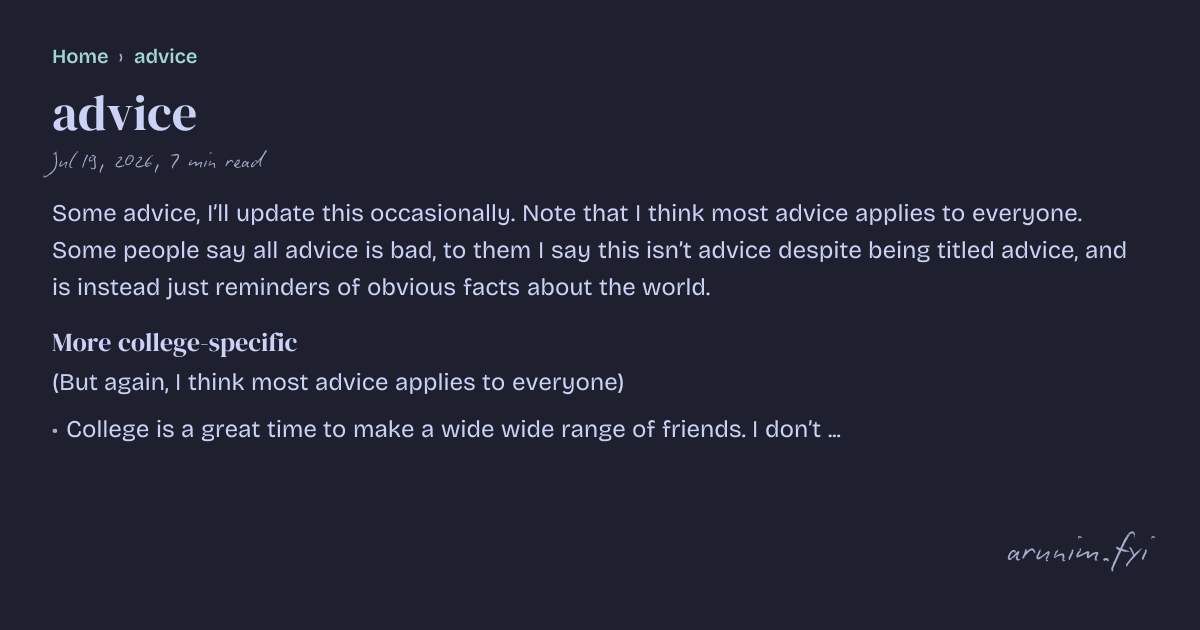
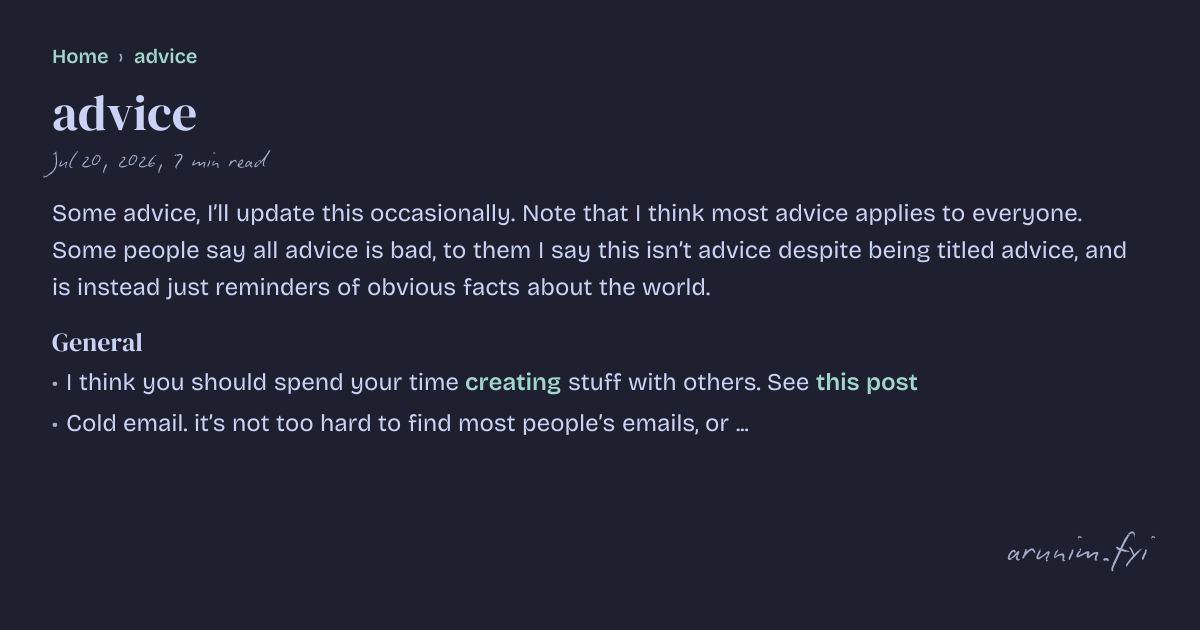
Build from arunim1/quartz@dec9a6a2a4a7ddc47f0a2cdc49b058c76cf8abbe

Changed region(s): [[0.0308, 0.5127, 0.7708, 0.6333], [0.0308, 0.6635, 0.7092, 0.6937], [0.0617, 0.2413, 0.2158, 0.2714]]

diff --git a/docs/advice.html b/docs/advice.html
@@ -1,37 +1,13 @@
 <!DOCTYPE html>
-<html lang="en"><head><title>advice - arunim.fyi</title><meta charset="utf-8"/><link rel="preconnect" href="https://fonts.googleapis.com"/><link rel="preconnect" href="https://fonts.gstatic.com"/><link rel="stylesheet" href="https://fonts.googleapis.com/css2?family=JetBrains Mono&amp;family=DM Serif Display:wght@400;700&amp;family=Bricolage Grotesque:ital,wght@0,350;0,600;1,400;1,600&amp;display=swap"/><meta name="viewport" content="width=device-width, initial-scale=1.0"/><meta property="og:title" content="advice"/><meta property="og:description" content="Some advice, I’ll update this occasionally. Note that I think most advice applies to everyone. Some people say all advice is bad, to them I say this isn’t advice despite being titled advice, and is instead just reminders of obvious facts about the world."/><meta property="og:image" content="https://arunim.fyi/static/og/advice.png"/><meta property="og:width" content="1200"/><meta property="og:height" content="675"/><link rel="icon" type="image/svg+xml" href="./static/icon.svg"/><link rel="icon" type="image/png" sizes="32x32" media="(prefers-color-scheme: light)" href="./static/favicon-32.png"/><link rel="icon" type="image/png" sizes="32x32" media="(prefers-color-scheme: dark)" href="./static/favicon-32-dark.png"/><link rel="icon" type="image/png" sizes="16x16" media="(prefers-color-scheme: light)" href="./static/favicon-16.png"/><link rel="icon" type="image/png" sizes="16x16" media="(prefers-color-scheme: dark)" href="./static/favicon-16-dark.png"/><meta name="description" content="Some advice, I’ll update this occasionally. Note that I think most advice applies to everyone. Some people say all advice is bad, to them I say this isn’t advice despite being titled advice, and is instead just reminders of obvious facts about the world."/><meta name="apple-mobile-web-app-capable" content="yes"/><meta name="apple-mobile-web-app-status-bar-style" content="default"/><meta name="apple-mobile-web-app-title" content="The Garden"/><link rel="apple-touch-icon" href="./static/apple-touch-icon.png"/><link rel="manifest" href="./static/manifest.json"/><meta name="generator" content="Quartz"/><meta name="quartz-visibility" content="public"/><link rel="preconnect" href="https://fonts.googleapis.com"/><link rel="preconnect" href="https://fonts.gstatic.com"/><link href="./static/font/font-style.css" rel="stylesheet" type="text/css" spa-preserve/><link href="./index.css" rel="stylesheet" type="text/css" spa-preserve/><link href="https://cdnjs.cloudflare.com/ajax/libs/KaTeX/0.16.9/katex.min.css" rel="stylesheet" type="text/css" spa-preserve/><link href="https://cdnjs.cloudflare.com/ajax/libs/KaTeX/0.16.9/katex.min.css" rel="stylesheet" type="text/css" spa-preserve/><script src="./prescript.js" type="application/javascript" spa-preserve></script><script type="application/javascript" spa-preserve>const fetchData = fetch("./static/contentIndex.json").then(data => data.json())</script></head><body data-slug="advice"><div id="quartz-root" class="page"><div id="quartz-body"><div class="left sidebar"><h2 class="page-title"><a href=".">arunim.fyi</a></h2><div class="spacer mobile-only"></div><div class="search"><button class="search-button" id="search-button"><p>Search</p><svg role="img" xmlns="http://www.w3.org/2000/svg" viewBox="[phone redacted]"><title>Search</title><g class="search-path" fill="none"><path stroke-linecap="square" d="M18.5 18.3l-5.4-5.4"></path><circle cx="8" cy="8" r="7"></circle></g></svg></button><div id="search-container"><div id="search-space"><input type="search" autocomplete="off" id="search-bar" name="search" aria-label="Search for something" placeholder="Search for something"/><div id="search-layout" data-preview="true"></div></div></div></div><button class="darkmode" id="darkmode"><svg xmlns="http://www.w3.org/2000/svg" xmlns:xlink="http://www.w3.org/1999/xlink" version="1.1" id="dayIcon" x="0px" y="0px" viewBox="0 0 35 35" style="enable-background:new 0 0 35 35" xml:space="preserve" aria-label="Dark mode"><title>Dark mode</title><path d="M6,17.5C6,16.672,5.328,16,4.5,16h-3C0.672,16,0,16.672,0,17.5    S0.672,19,1.5,19h3C5.328,19,6,18.328,6,17.5z M7.5,26c-0.414,0-0.789,[phone redacted],0.439l-2,2C4.168,28.711,4,29.086,4,29.5    C4,30.328,4.671,31,5.5,31c0.414,0,[phone redacted],1.06-0.44l2-2C8.832,28.289,9,27.914,9,27.5C9,26.672,8.329,26,7.5,26z M17.5,6    C18.329,6,19,5.328,19,4.5v-3C19,0.672,18.329,0,17.5,0S16,0.672,16,1.5v3C16,5.328,16.671,6,17.5,6z M27.5,9    c0.414,0,[phone redacted],1.06-0.439l2-2C30.832,6.289,31,5.914,31,5.5C31,4.672,30.329,4,29.5,4c-0.414,0-0.789,[phone redacted],0.44    l-2,2C26.168,6.711,26,7.086,26,7.5C26,8.328,26.671,9,27.5,9z M6.439,8.561C6.711,8.832,7.086,9,7.5,9C8.328,9,9,8.328,9,7.5    c0-[phone redacted].439-1.061l-2-2C6.289,4.168,5.914,4,5.5,4C4.672,4,4,4.672,4,5.5c0,0.414,0.168,0.789,0.439,1.06    L6.439,8.561z M33.5,16h-3c-0.828,0-1.5,0.672-1.5,1.5s0.672,1.5,1.5,1.5h3c0.828,0,1.5-0.672,1.5-1.5S34.328,16,33.5,16z     M28.561,26.439C28.289,26.168,27.914,26,27.5,26c-0.828,0-1.5,0.672-1.5,1.5c0,0.414,0.168,0.789,0.439,1.06l2,2    C28.711,30.832,29.086,31,29.5,31c0.828,0,1.5-0.672,1.5-1.5c0-[phone redacted].439-1.061L28.561,26.439z M17.5,29    c-0.829,0-1.5,0.672-1.5,1.5v3c0,0.828,0.671,1.5,1.5,1.5s1.5-0.672,1.5-1.5v-3C19,29.672,18.329,29,17.5,29z M17.5,7    C11.71,7,7,11.71,7,17.5S11.71,28,17.5,28S28,23.29,28,17.5S23.29,7,17.5,7z M17.5,25c-4.136,[phone redacted]    c0-4.136,3.364-7.5,7.5-7.5c4.136,0,7.5,3.364,7.5,7.5C25,21.636,21.636,25,17.5,25z"></path></svg><svg xmlns="http://www.w3.org/2000/svg" xmlns:xlink="http://www.w3.org/1999/xlink" version="1.1" id="nightIcon" x="0px" y="0px" viewBox="[phone redacted]" style="enable-background:new [phone redacted]" xml:space="preserve" aria-label="Light mode"><title>Light mode</title><path d="M96.76,66.458c-[phone redacted]-3.23-0.534c-6.063,[phone redacted],[phone redacted],4.571  C62.022,70.495,50.88,65.88,42.5,57.5C29.043,44.043,25.658,23.536,34.076,6.47c0.532-1.08,[phone redacted]  c-[phone redacted]-3.23-0.534c-4.918,[phone redacted],[phone redacted],9.491c-9.447,[phone redacted],[phone redacted],35.369  c0,13.36,5.203,25.921,14.65,35.368s22.008,14.65,35.368,14.65c13.361,0,[phone redacted],[phone redacted]  c3.[phone redacted],[phone redacted],9.491-13.246C97.826,68.608,97.611,67.309,96.76,66.458z"></path></svg><svg xmlns="http://www.w3.org/2000/svg" xmlns:xlink="http://www.w3.org/1999/xlink" version="1.1" id="autoIcon" x="0px" y="0px" viewBox="0 0 24 24" style="enable-background:new 0 0 24 24" xml:space="preserve" aria-label="Device mode"><title>Device mode</title><path stroke="none" d="M0 0h24v24H0z" fill="none"></path><path d="M3 19l18 0" fill="none" stroke="currentColor" stroke-width="2" stroke-linecap="round" stroke-linejoin="round"></path><path d="M5 6m0 1a1 1 0 0 1 1 -1h12a1 1 0 0 1 1 1v8a1 1 0 0 1 -1 1h-12a1 1 0 0 1 -1 -1z" fill="none" stroke="currentColor" stroke-width="2" stroke-linecap="round" stroke-linejoin="round"></path></svg></button></div><div class="center"><div class="page-header"><div class="popover-hint"><nav class="breadcrumb-container" aria-label="breadcrumbs"><div class="breadcrumb-element"><a href="./">Home</a><p> ❯ </p></div><div class="breadcrumb-element"><a href>advice</a></div></nav><h1 class="article-title">advice</h1><p show-comma="true" class="content-meta"><span>Jul 19, 2026</span><span>7 min read</span></p></div></div><article class="popover-hint"><p>Some advice, I’ll update this occasionally. Note that I think most advice applies to everyone. Some people say all advice is bad, to them I say this isn’t advice despite being titled advice, and is instead just reminders of obvious facts about the world.</p>
-<h3 id="more-college-specific">More college-specific<a role="anchor" aria-hidden="true" tabindex="-1" data-no-popover="true" href="#more-college-specific" class="internal"><svg width="18" height="18" viewBox="0 0 24 24" fill="none" stroke="currentColor" stroke-width="2" stroke-linecap="round" stroke-linejoin="round"><path d="M10 13a5 5 0 0 0 7.54.54l3-3a5 5 0 0 0-7.07-7.07l-1.72 1.71"></path><path d="M14 11a5 5 0 0 0-7.54-.54l-3 3a5 5 0 0 0 7.07 7.07l1.71-1.71"></path></svg></a></h3>
-<p>(But again, I think most advice applies to everyone)</p>
+<html lang="en"><head><title>advice - arunim.fyi</title><meta charset="utf-8"/><link rel="preconnect" href="https://fonts.googleapis.com"/><link rel="preconnect" href="https://fonts.gstatic.com"/><link rel="stylesheet" href="https://fonts.googleapis.com/css2?family=JetBrains Mono&amp;family=DM Serif Display:wght@400;700&amp;family=Bricolage Grotesque:ital,wght@0,350;0,600;1,400;1,600&amp;display=swap"/><meta name="viewport" content="width=device-width, initial-scale=1.0"/><meta property="og:title" content="advice"/><meta property="og:description" content="Some advice, I’ll update this occasionally. Note that I think most advice applies to everyone. Some people say all advice is bad, to them I say this isn’t advice despite being titled advice, and is instead just reminders of obvious facts about the world."/><meta property="og:image" content="https://arunim.fyi/static/og/advice.png"/><meta property="og:width" content="1200"/><meta property="og:height" content="675"/><link rel="icon" type="image/svg+xml" href="./static/icon.svg"/><link rel="icon" type="image/png" sizes="32x32" media="(prefers-color-scheme: light)" href="./static/favicon-32.png"/><link rel="icon" type="image/png" sizes="32x32" media="(prefers-color-scheme: dark)" href="./static/favicon-32-dark.png"/><link rel="icon" type="image/png" sizes="16x16" media="(prefers-color-scheme: light)" href="./static/favicon-16.png"/><link rel="icon" type="image/png" sizes="16x16" media="(prefers-color-scheme: dark)" href="./static/favicon-16-dark.png"/><meta name="description" content="Some advice, I’ll update this occasionally. Note that I think most advice applies to everyone. Some people say all advice is bad, to them I say this isn’t advice despite being titled advice, and is instead just reminders of obvious facts about the world."/><meta name="apple-mobile-web-app-capable" content="yes"/><meta name="apple-mobile-web-app-status-bar-style" content="default"/><meta name="apple-mobile-web-app-title" content="The Garden"/><link rel="apple-touch-icon" href="./static/apple-touch-icon.png"/><link rel="manifest" href="./static/manifest.json"/><meta name="generator" content="Quartz"/><meta name="quartz-visibility" content="public"/><link rel="preconnect" href="https://fonts.googleapis.com"/><link rel="preconnect" href="https://fonts.gstatic.com"/><link href="./static/font/font-style.css" rel="stylesheet" type="text/css" spa-preserve/><link href="./index.css" rel="stylesheet" type="text/css" spa-preserve/><link href="https://cdnjs.cloudflare.com/ajax/libs/KaTeX/0.16.9/katex.min.css" rel="stylesheet" type="text/css" spa-preserve/><link href="https://cdnjs.cloudflare.com/ajax/libs/KaTeX/0.16.9/katex.min.css" rel="stylesheet" type="text/css" spa-preserve/><script src="./prescript.js" type="application/javascript" spa-preserve></script><script type="application/javascript" spa-preserve>const fetchData = fetch("./static/contentIndex.json").then(data => data.json())</script></head><body data-slug="advice"><div id="quartz-root" class="page"><div id="quartz-body"><div class="left sidebar"><h2 class="page-title"><a href=".">arunim.fyi</a></h2><div class="spacer mobile-only"></div><div class="search"><button class="search-button" id="search-button"><p>Search</p><svg role="img" xmlns="http://www.w3.org/2000/svg" viewBox="[phone redacted]"><title>Search</title><g class="search-path" fill="none"><path stroke-linecap="square" d="M18.5 18.3l-5.4-5.4"></path><circle cx="8" cy="8" r="7"></circle></g></svg></button><div id="search-container"><div id="search-space"><input type="search" autocomplete="off" id="search-bar" name="search" aria-label="Search for something" placeholder="Search for something"/><div id="search-layout" data-preview="true"></div></div></div></div><button class="darkmode" id="darkmode"><svg xmlns="http://www.w3.org/2000/svg" xmlns:xlink="http://www.w3.org/1999/xlink" version="1.1" id="dayIcon" x="0px" y="0px" viewBox="0 0 35 35" style="enable-background:new 0 0 35 35" xml:space="preserve" aria-label="Dark mode"><title>Dark mode</title><path d="M6,17.5C6,16.672,5.328,16,4.5,16h-3C0.672,16,0,16.672,0,17.5    S0.672,19,1.5,19h3C5.328,19,6,18.328,6,17.5z M7.5,26c-0.414,0-0.789,[phone redacted],0.439l-2,2C4.168,28.711,4,29.086,4,29.5    C4,30.328,4.671,31,5.5,31c0.414,0,[phone redacted],1.06-0.44l2-2C8.832,28.289,9,27.914,9,27.5C9,26.672,8.329,26,7.5,26z M17.5,6    C18.329,6,19,5.328,19,4.5v-3C19,0.672,18.329,0,17.5,0S16,0.672,16,1.5v3C16,5.328,16.671,6,17.5,6z M27.5,9    c0.414,0,[phone redacted],1.06-0.439l2-2C30.832,6.289,31,5.914,31,5.5C31,4.672,30.329,4,29.5,4c-0.414,0-0.789,[phone redacted],0.44    l-2,2C26.168,6.711,26,7.086,26,7.5C26,8.328,26.671,9,27.5,9z M6.439,8.561C6.711,8.832,7.086,9,7.5,9C8.328,9,9,8.328,9,7.5    c0-[phone redacted].439-1.061l-2-2C6.289,4.168,5.914,4,5.5,4C4.672,4,4,4.672,4,5.5c0,0.414,0.168,0.789,0.439,1.06    L6.439,8.561z M33.5,16h-3c-0.828,0-1.5,0.672-1.5,1.5s0.672,1.5,1.5,1.5h3c0.828,0,1.5-0.672,1.5-1.5S34.328,16,33.5,16z     M28.561,26.439C28.289,26.168,27.914,26,27.5,26c-0.828,0-1.5,0.672-1.5,1.5c0,0.414,0.168,0.789,0.439,1.06l2,2    C28.711,30.832,29.086,31,29.5,31c0.828,0,1.5-0.672,1.5-1.5c0-[phone redacted].439-1.061L28.561,26.439z M17.5,29    c-0.829,0-1.5,0.672-1.5,1.5v3c0,0.828,0.671,1.5,1.5,1.5s1.5-0.672,1.5-1.5v-3C19,29.672,18.329,29,17.5,29z M17.5,7    C11.71,7,7,11.71,7,17.5S11.71,28,17.5,28S28,23.29,28,17.5S23.29,7,17.5,7z M17.5,25c-4.136,[phone redacted]    c0-4.136,3.364-7.5,7.5-7.5c4.136,0,7.5,3.364,7.5,7.5C25,21.636,21.636,25,17.5,25z"></path></svg><svg xmlns="http://www.w3.org/2000/svg" xmlns:xlink="http://www.w3.org/1999/xlink" version="1.1" id="nightIcon" x="0px" y="0px" viewBox="[phone redacted]" style="enable-background:new [phone redacted]" xml:space="preserve" aria-label="Light mode"><title>Light mode</title><path d="M96.76,66.458c-[phone redacted]-3.23-0.534c-6.063,[phone redacted],[phone redacted],4.571  C62.022,70.495,50.88,65.88,42.5,57.5C29.043,44.043,25.658,23.536,34.076,6.47c0.532-1.08,[phone redacted]  c-[phone redacted]-3.23-0.534c-4.918,[phone redacted],[phone redacted],9.491c-9.447,[phone redacted],[phone redacted],35.369  c0,13.36,5.203,25.921,14.65,35.368s22.008,14.65,35.368,14.65c13.361,0,[phone redacted],[phone redacted]  c3.[phone redacted],[phone redacted],9.491-13.246C97.826,68.608,97.611,67.309,96.76,66.458z"></path></svg><svg xmlns="http://www.w3.org/2000/svg" xmlns:xlink="http://www.w3.org/1999/xlink" version="1.1" id="autoIcon" x="0px" y="0px" viewBox="0 0 24 24" style="enable-background:new 0 0 24 24" xml:space="preserve" aria-label="Device mode"><title>Device mode</title><path stroke="none" d="M0 0h24v24H0z" fill="none"></path><path d="M3 19l18 0" fill="none" stroke="currentColor" stroke-width="2" stroke-linecap="round" stroke-linejoin="round"></path><path d="M5 6m0 1a1 1 0 0 1 1 -1h12a1 1 0 0 1 1 1v8a1 1 0 0 1 -1 1h-12a1 1 0 0 1 -1 -1z" fill="none" stroke="currentColor" stroke-width="2" stroke-linecap="round" stroke-linejoin="round"></path></svg></button><div class="toc desktop-only"><button type="button" id="toc" class aria-controls="toc-content" aria-expanded="true"><h3>Table of Contents</h3><svg xmlns="http://www.w3.org/2000/svg" width="24" height="24" viewBox="0 0 24 24" fill="none" stroke="currentColor" stroke-width="2" stroke-linecap="round" stroke-linejoin="round" class="fold"><polyline points="[phone redacted]"></polyline></svg></button><div id="toc-content" class><ul class="overflow"><li class="depth-0"><a href="#general" data-for="general">General</a></li><li class="depth-0"><a href="#more-college-specific" data-for="more-college-specific">More college-specific</a></li></ul></div></div></div><div class="center"><div class="page-header"><div class="popover-hint"><nav class="breadcrumb-container" aria-label="breadcrumbs"><div class="breadcrumb-element"><a href="./">Home</a><p> ❯ </p></div><div class="breadcrumb-element"><a href>advice</a></div></nav><h1 class="article-title">advice</h1><p show-comma="true" class="content-meta"><span>Jul 20, 2026</span><span>7 min read</span></p></div></div><article class="popover-hint"><p>Some advice, I’ll update this occasionally. Note that I think most advice applies to everyone. Some people say all advice is bad, to them I say this isn’t advice despite being titled advice, and is instead just reminders of obvious facts about the world.</p>
+<h3 id="general">General<a role="anchor" aria-hidden="true" tabindex="-1" data-no-popover="true" href="#general" class="internal"><svg width="18" height="18" viewBox="0 0 24 24" fill="none" stroke="currentColor" stroke-width="2" stroke-linecap="round" stroke-linejoin="round"><path d="M10 13a5 5 0 0 0 7.54.54l3-3a5 5 0 0 0-7.07-7.07l-1.72 1.71"></path><path d="M14 11a5 5 0 0 0-7.54-.54l-3 3a5 5 0 0 0 7.07 7.07l1.71-1.71"></path></svg></a></h3>
 <ul>
-<li>
-<p>College is a great time to make a wide wide range of friends. I don’t think I did this that well, because I didn’t try.</p>
-</li>
-<li>
-<p>The primary indicator (by far) for whether you should take a course is how good you think the prof is, how much you’d enjoy talking to them and learning from them, etc.</p>
-</li>
-<li>
-<p>Read <a href="https://space.ong.ac/escaping-flatland" class="external" target="_blank">Euan’s advice<svg aria-hidden="true" class="external-icon" viewBox="0 0 512 512"><path d="M320 0H288V64h32 82.7L201.4 265.4 178.7 288 224 333.3l22.6-22.6L448 109.3V192v32h64V192 32 0H480 320zM32 32H0V64 480v32H32 456h32V480 352 320H424v32 96H64V96h96 32V32H160 32z"></path></svg></a> now and when you get far enough that you’re thinking about job-related things, read it again.</p>
-</li>
-<li>
-<p>Find good mentors and be a good mentee (I was bad at the latter, and still don’t know how to do it well yet, but you can probably look it up or actually just ask someone smarter than me).</p>
-</li>
-<li>
-<p>I think you should spend your time <a href="./creating-instead-of-consuming" class="internal alias" data-slug="creating-instead-of-consuming">creating</a> stuff with others. See <a href="https://benbyfax.substack.com/p/aliveness" class="external" target="_blank">this post<svg aria-hidden="true" class="external-icon" viewBox="0 0 512 512"><path d="M320 0H288V64h32 82.7L201.4 265.4 178.7 288 224 333.3l22.6-22.6L448 109.3V192v32h64V192 32 0H480 320zM32 32H0V64 480v32H32 456h32V480 352 320H424v32 96H64V96h96 32V32H160 32z"></path></svg></a></p>
-</li>
-<li>
-<p>Cold email. it’s not too hard to find most people’s emails, or other ways of emailing them. Follow up with them a few days afterwards if they don’t respond.</p>
-</li>
-<li>
-<p>If you primarily want to do good in the world, read <a href="https://sophieinkhaven.substack.com/cp/193324672" class="external" target="_blank">Sophie’s post<svg aria-hidden="true" class="external-icon" viewBox="0 0 512 512"><path d="M320 0H288V64h32 82.7L201.4 265.4 178.7 288 224 333.3l22.6-22.6L448 109.3V192v32h64V192 32 0H480 320zM32 32H0V64 480v32H32 456h32V480 352 320H424v32 96H64V96h96 32V32H160 32z"></path></svg></a>.</p>
-</li>
-<li>
-<p>Do things that compound, pick one habit at a time and do it well, then move to the next habit. Some ideas for habits you may want to pick up: Anki, gym, run, call a random friend, reflect, journal, write.</p>
-</li>
-<li>
-<p>Read with the intent of talking with the author. (stolen from <a href="https://xcancel.com/divya_venn" class="external" target="_blank">X<svg aria-hidden="true" class="external-icon" viewBox="0 0 512 512"><path d="M320 0H288V64h32 82.7L201.4 265.4 178.7 288 224 333.3l22.6-22.6L448 109.3V192v32h64V192 32 0H480 320zM32 32H0V64 480v32H32 456h32V480 352 320H424v32 96H64V96h96 32V32H160 32z"></path></svg></a>)</p>
-</li>
-<li>
-<p>Maybe read:</p>
+<li>I think you should spend your time <a href="./creating-instead-of-consuming" class="internal alias" data-slug="creating-instead-of-consuming">creating</a> stuff with others. See <a href="https://benbyfax.substack.com/p/aliveness" class="external" target="_blank">this post<svg aria-hidden="true" class="external-icon" viewBox="0 0 512 512"><path d="M320 0H288V64h32 82.7L201.4 265.4 178.7 288 224 333.3l22.6-22.6L448 109.3V192v32h64V192 32 0H480 320zM32 32H0V64 480v32H32 456h32V480 352 320H424v32 96H64V96h96 32V32H160 32z"></path></svg></a></li>
+<li>Cold email. it’s not too hard to find most people’s emails, or other ways of emailing them. Follow up with them a few days afterwards if they don’t respond.</li>
+<li>If you primarily want to do good in the world, read <a href="https://sophieinkhaven.substack.com/cp/193324672" class="external" target="_blank">Sophie’s post<svg aria-hidden="true" class="external-icon" viewBox="0 0 512 512"><path d="M320 0H288V64h32 82.7L201.4 265.4 178.7 288 224 333.3l22.6-22.6L448 109.3V192v32h64V192 32 0H480 320zM32 32H0V64 480v32H32 456h32V480 352 320H424v32 96H64V96h96 32V32H160 32z"></path></svg></a>.</li>
+<li>Do things that compound, pick one habit at a time and do it well, then move to the next habit. Some ideas for habits you may want to pick up: Anki, gym, run, call a random friend, reflect, journal, write.</li>
+<li>Read with the intent of talking with the author. (stolen from <a href="https://xcancel.com/divya_venn" class="external" target="_blank">X<svg aria-hidden="true" class="external-icon" viewBox="0 0 512 512"><path d="M320 0H288V64h32 82.7L201.4 265.4 178.7 288 224 333.3l22.6-22.6L448 109.3V192v32h64V192 32 0H480 320zM32 32H0V64 480v32H32 456h32V480 352 320H424v32 96H64V96h96 32V32H160 32z"></path></svg></a>)</li>
+<li>Maybe read:
 <ul>
 <li><a href="https://www.avitalbalwit.com/post/the-advice-i-would-give-on-a-mentorship-call" class="external" target="_blank">Avital Balwit’s advice<svg aria-hidden="true" class="external-icon" viewBox="[phone redacted]"><path d="M320 0H288V64h32 82.7L201.[phone redacted] 333.3l22.6-22.6L448 109.3V192v32h64V192 32 0H480 320zM32 32H0V64 480v32H32 456h32V480 352 320H424v32 96H64V96h96 32V32H160 32z"></path></svg></a></li>
 <li><a href="https://nabeelqu.substack.com/p/advice" class="external" target="_blank">Nabeel Qureshi’s advice<svg aria-hidden="true" class="external-icon" viewBox="0 0 512 512"><path d="M320 0H288V64h32 82.7L201.4 265.4 178.7 288 224 333.3l22.6-22.6L448 109.3V192v32h64V192 32 0H480 320zM32 32H0V64 480v32H32 456h32V480 352 320H424v32 96H64V96h96 32V32H160 32z"></path></svg></a></li>
@@ -67,7 +43,15 @@
 <p>But I think surprisingly enough, one of the most important things is just caring an unbelievable amount. When you care an unbelievable amount, you check all the details and you have this understanding of what could have gone wrong. It just matters more than you think. People end up not caring or not caring enough.</p>
 <p>There’s this LeBron quote where he talks about how before he started in the league he was worried that everyone being incredibly good. He gets there and then he realizes that actually, once people hit financial stability, they relax a bit and he realizes, “oh, this is going to be easy.”</p>
 <p>I don’t think that’s quite true because I think in AI research most people actually care quite deeply. But there’s caring about your problem and there’s also just caring about the entire stack and everything that goes up and down, going explicitly and fixing things that aren’t your responsibility to fix because overall it makes the stack better.</p>
-</blockquote></article><hr/><div class="page-footer"></div></div><div class="right sidebar"><div class="graph"><h3>Graph View</h3><div class="graph-outer"><div id="graph-container" data-cfg="{&quot;drag&quot;:true,&quot;zoom&quot;:true,&quot;depth&quot;:1,&quot;scale&quot;:1.1,&quot;repelForce&quot;:0.5,&quot;centerForce&quot;:0.3,&quot;linkDistance&quot;:30,&quot;fontSize&quot;:0.6,&quot;opacityScale&quot;:1,&quot;showTags&quot;:true,&quot;removeTags&quot;:[&quot;root-directory&quot;],&quot;focusOnHover&quot;:false}"></div><button id="global-graph-icon" aria-label="Global Graph"><svg version="1.1" xmlns="http://www.w3.org/2000/svg" xmlns:xlink="http://www.w3.org/1999/xlink" x="0px" y="0px" viewBox="0 0 55 55" fill="currentColor" xml:space="preserve"><path d="M49,0c-3.309,0-6,2.691-6,6c0,1.035,0.263,2.009,0.726,2.86l-9.829,9.829C32.542,17.634,30.846,17,29,17
+</blockquote>
+<h3 id="more-college-specific">More college-specific<a role="anchor" aria-hidden="true" tabindex="-1" data-no-popover="true" href="#more-college-specific" class="internal"><svg width="18" height="18" viewBox="0 0 24 24" fill="none" stroke="currentColor" stroke-width="2" stroke-linecap="round" stroke-linejoin="round"><path d="M10 13a5 5 0 0 0 7.54.54l3-3a5 5 0 0 0-7.07-7.07l-1.72 1.71"></path><path d="M14 11a5 5 0 0 0-7.54-.54l-3 3a5 5 0 0 0 7.07 7.07l1.71-1.71"></path></svg></a></h3>
+<p>(But again, I think most advice applies to everyone)</p>
+<ul>
+<li>College is a great time to make a wide wide range of friends. I don’t think I did this that well, because I didn’t try.</li>
+<li>The primary indicator (by far) for whether you should take a course is how good you think the prof is, how much you’d enjoy talking to them and learning from them, etc.</li>
+<li>Read <a href="https://space.ong.ac/escaping-flatland" class="external" target="_blank">Euan’s advice<svg aria-hidden="true" class="external-icon" viewBox="0 0 512 512"><path d="M320 0H288V64h32 82.7L201.4 265.4 178.7 288 224 333.3l22.6-22.6L448 109.3V192v32h64V192 32 0H480 320zM32 32H0V64 480v32H32 456h32V480 352 320H424v32 96H64V96h96 32V32H160 32z"></path></svg></a> now and when you get far enough that you’re thinking about job-related things, read it again.</li>
+<li>Find good mentors and be a good mentee (I was bad at the latter, and still don’t know how to do it well yet, but you can probably look it up or actually just ask someone smarter than me).</li>
+</ul></article><hr/><div class="page-footer"></div></div><div class="right sidebar"><div class="graph"><h3>Graph View</h3><div class="graph-outer"><div id="graph-container" data-cfg="{&quot;drag&quot;:true,&quot;zoom&quot;:true,&quot;depth&quot;:1,&quot;scale&quot;:1.1,&quot;repelForce&quot;:0.5,&quot;centerForce&quot;:0.3,&quot;linkDistance&quot;:30,&quot;fontSize&quot;:0.6,&quot;opacityScale&quot;:1,&quot;showTags&quot;:true,&quot;removeTags&quot;:[&quot;root-directory&quot;],&quot;focusOnHover&quot;:false}"></div><button id="global-graph-icon" aria-label="Global Graph"><svg version="1.1" xmlns="http://www.w3.org/2000/svg" xmlns:xlink="http://www.w3.org/1999/xlink" x="0px" y="0px" viewBox="0 0 55 55" fill="currentColor" xml:space="preserve"><path d="M49,0c-3.309,0-6,2.691-6,6c0,1.035,0.263,2.009,0.726,2.86l-9.829,9.829C32.542,17.634,30.846,17,29,17
                 s-3.542,0.634-4.898,1.688l-7.669-7.669C16.785,10.424,17,9.74,17,9c0-2.206-1.794-4-4-4S9,6.794,9,9s1.794,4,4,4
                 c0.74,0,1.424-0.215,2.019-0.567l7.669,7.669C21.634,21.458,21,23.154,21,25s0.634,3.542,1.688,4.897L10.024,42.562
                 C8.958,41.595,7.549,41,6,41c-3.309,0-6,2.691-6,6s2.691,6,6,6s6-2.691,6-6c0-1.035-0.263-2.009-0.726-2.86l12.829-12.829

diff --git a/docs/index.html b/docs/index.html
@@ -1,5 +1,5 @@
 <!DOCTYPE html>
-<html lang="en"><head><title>arunim.fyi</title><meta charset="utf-8"/><link rel="preconnect" href="https://fonts.googleapis.com"/><link rel="preconnect" href="https://fonts.gstatic.com"/><link rel="stylesheet" href="https://fonts.googleapis.com/css2?family=JetBrains Mono&amp;family=DM Serif Display:wght@400;700&amp;family=Bricolage Grotesque:ital,wght@0,350;0,600;1,400;1,600&amp;display=swap"/><meta name="viewport" content="width=device-width, initial-scale=1.0"/><meta property="og:title" content="index"/><meta property="og:description" content="Hello! Welcome to a little garden of my evolving thoughts, beliefs, and ideas. Here, I make portions of my mind readable to the world, and where I write up my notes on content I consume."/><meta property="og:image" content="https://arunim.fyi/static/og/index.png"/><meta property="og:width" content="1200"/><meta property="og:height" content="675"/><link rel="icon" type="image/svg+xml" href="./static/icon.svg"/><link rel="icon" type="image/png" sizes="32x32" media="(prefers-color-scheme: light)" href="./static/favicon-32.png"/><link rel="icon" type="image/png" sizes="32x32" media="(prefers-color-scheme: dark)" href="./static/favicon-32-dark.png"/><link rel="icon" type="image/png" sizes="16x16" media="(prefers-color-scheme: light)" href="./static/favicon-16.png"/><link rel="icon" type="image/png" sizes="16x16" media="(prefers-color-scheme: dark)" href="./static/favicon-16-dark.png"/><meta name="description" content="Hello! Welcome to a little garden of my evolving thoughts, beliefs, and ideas. Here, I make portions of my mind readable to the world, and where I write up my notes on content I consume."/><meta name="apple-mobile-web-app-capable" content="yes"/><meta name="apple-mobile-web-app-status-bar-style" content="default"/><meta name="apple-mobile-web-app-title" content="The Garden"/><link rel="apple-touch-icon" href="./static/apple-touch-icon.png"/><link rel="manifest" href="./static/manifest.json"/><meta name="generator" content="Quartz"/><meta name="quartz-visibility" content="public"/><link rel="preconnect" href="https://fonts.googleapis.com"/><link rel="preconnect" href="https://fonts.gstatic.com"/><link href="./static/font/font-style.css" rel="stylesheet" type="text/css" spa-preserve/><link href="./index.css" rel="stylesheet" type="text/css" spa-preserve/><link href="https://cdnjs.cloudflare.com/ajax/libs/KaTeX/0.16.9/katex.min.css" rel="stylesheet" type="text/css" spa-preserve/><link href="https://cdnjs.cloudflare.com/ajax/libs/KaTeX/0.16.9/katex.min.css" rel="stylesheet" type="text/css" spa-preserve/><script src="./prescript.js" type="application/javascript" spa-preserve></script><script type="application/javascript" spa-preserve>const fetchData = fetch("./static/contentIndex.json").then(data => data.json())</script><script src="/static/sodium.js" spa-preserve></script></head><body data-slug="index"><div id="quartz-root" class="page"><div id="quartz-body"><div class="left sidebar"><h2 class="page-title"><a href=".">arunim.fyi</a></h2><div class="spacer mobile-only"></div><div class="search"><button class="search-button" id="search-button"><p>Search</p><svg role="img" xmlns="http://www.w3.org/2000/svg" viewBox="[phone redacted]"><title>Search</title><g class="search-path" fill="none"><path stroke-linecap="square" d="M18.5 18.3l-5.4-5.4"></path><circle cx="8" cy="8" r="7"></circle></g></svg></button><div id="search-container"><div id="search-space"><input type="search" autocomplete="off" id="search-bar" name="search" aria-label="Search for something" placeholder="Search for something"/><div id="search-layout" data-preview="true"></div></div></div></div><button class="darkmode" id="darkmode"><svg xmlns="http://www.w3.org/2000/svg" xmlns:xlink="http://www.w3.org/1999/xlink" version="1.1" id="dayIcon" x="0px" y="0px" viewBox="0 0 35 35" style="enable-background:new 0 0 35 35" xml:space="preserve" aria-label="Dark mode"><title>Dark mode</title><path d="M6,17.5C6,16.672,5.328,16,4.5,16h-3C0.672,16,0,16.672,0,17.5    S0.672,19,1.5,19h3C5.328,19,6,18.328,6,17.5z M7.5,26c-0.414,0-0.789,[phone redacted],0.439l-2,2C4.168,28.711,4,29.086,4,29.5    C4,30.328,4.671,31,5.5,31c0.414,0,[phone redacted],1.06-0.44l2-2C8.832,28.289,9,27.914,9,27.5C9,26.672,8.329,26,7.5,26z M17.5,6    C18.329,6,19,5.328,19,4.5v-3C19,0.672,18.329,0,17.5,0S16,0.672,16,1.5v3C16,5.328,16.671,6,17.5,6z M27.5,9    c0.414,0,[phone redacted],1.06-0.439l2-2C30.832,6.289,31,5.914,31,5.5C31,4.672,30.329,4,29.5,4c-0.414,0-0.789,[phone redacted],0.44    l-2,2C26.168,6.711,26,7.086,26,7.5C26,8.328,26.671,9,27.5,9z M6.439,8.561C6.711,8.832,7.086,9,7.5,9C8.328,9,9,8.328,9,7.5    c0-[phone redacted].439-1.061l-2-2C6.289,4.168,5.914,4,5.5,4C4.672,4,4,4.672,4,5.5c0,0.414,0.168,0.789,0.439,1.06    L6.439,8.561z M33.5,16h-3c-0.828,0-1.5,0.672-1.5,1.5s0.672,1.5,1.5,1.5h3c0.828,0,1.5-0.672,1.5-1.5S34.328,16,33.5,16z     M28.561,26.439C28.289,26.168,27.914,26,27.5,26c-0.828,0-1.5,0.672-1.5,1.5c0,0.414,0.168,0.789,0.439,1.06l2,2    C28.711,30.832,29.086,31,29.5,31c0.828,0,1.5-0.672,1.5-1.5c0-[phone redacted].439-1.061L28.561,26.439z M17.5,29    c-0.829,0-1.5,0.672-1.5,1.5v3c0,0.828,0.671,1.5,1.5,1.5s1.5-0.672,1.5-1.5v-3C19,29.672,18.329,29,17.5,29z M17.5,7    C11.71,7,7,11.71,7,17.5S11.71,28,17.5,28S28,23.29,28,17.5S23.29,7,17.5,7z M17.5,25c-4.136,[phone redacted]    c0-4.136,3.364-7.5,7.5-7.5c4.136,0,7.5,3.364,7.5,7.5C25,21.636,21.636,25,17.5,25z"></path></svg><svg xmlns="http://www.w3.org/2000/svg" xmlns:xlink="http://www.w3.org/1999/xlink" version="1.1" id="nightIcon" x="0px" y="0px" viewBox="[phone redacted]" style="enable-background:new [phone redacted]" xml:space="preserve" aria-label="Light mode"><title>Light mode</title><path d="M96.76,66.458c-[phone redacted]-3.23-0.534c-6.063,[phone redacted],[phone redacted],4.571  C62.022,70.495,50.88,65.88,42.5,57.5C29.043,44.043,25.658,23.536,34.076,6.47c0.532-1.08,[phone redacted]  c-[phone redacted]-3.23-0.534c-4.918,[phone redacted],[phone redacted],9.491c-9.447,[phone redacted],[phone redacted],35.369  c0,13.36,5.203,25.921,14.65,35.368s22.008,14.65,35.368,14.65c13.361,0,[phone redacted],[phone redacted]  c3.[phone redacted],[phone redacted],9.491-13.246C97.826,68.608,97.611,67.309,96.76,66.458z"></path></svg><svg xmlns="http://www.w3.org/2000/svg" xmlns:xlink="http://www.w3.org/1999/xlink" version="1.1" id="autoIcon" x="0px" y="0px" viewBox="0 0 24 24" style="enable-background:new 0 0 24 24" xml:space="preserve" aria-label="Device mode"><title>Device mode</title><path stroke="none" d="M0 0h24v24H0z" fill="none"></path><path d="M3 19l18 0" fill="none" stroke="currentColor" stroke-width="2" stroke-linecap="round" stroke-linejoin="round"></path><path d="M5 6m0 1a1 1 0 0 1 1 -1h12a1 1 0 0 1 1 1v8a1 1 0 0 1 -1 1h-12a1 1 0 0 1 -1 -1z" fill="none" stroke="currentColor" stroke-width="2" stroke-linecap="round" stroke-linejoin="round"></path></svg></button><div class="recent-notes desktop-only"><h3>Recently Updated</h3><ul class="recent-ul"><li class="recent-li"><div class="section"><div class="desc"><h3><a href="./Thoughts-on-LLM-Personalization" class="internal">Thoughts on LLM Personalization</a></h3></div><p class="meta">Jul 19, 2026</p></div></li><li class="recent-li"><div class="section"><div class="desc"><h3><a href="./advice" class="internal">advice</a></h3></div><p class="meta">Jul 19, 2026</p></div></li><li class="recent-li"><div class="section"><div class="desc"><h3><a href="./Calvin-and-Hobbes" class="internal">Calvin and Hobbes</a></h3></div><p class="meta">Jul 18, 2026</p></div></li><li class="recent-li"><div class="section"><div class="desc"><h3><a href="./Where-is-the-CEV-benchmark" class="internal">Where is the CEV benchmark?</a></h3></div><p class="meta">Jul 18, 2026</p></div></li></ul><p><a href="./tags/root-directory">See all 84004 tokens →</a></p></div></div><div class="center"><div class="page-header"><div class="popover-hint"></div></div><article class="popover-hint"><img src="./assets/recolored_banner_1737173956602_0.svg" width="701" height="183" loading="lazy"/>
+<html lang="en"><head><title>arunim.fyi</title><meta charset="utf-8"/><link rel="preconnect" href="https://fonts.googleapis.com"/><link rel="preconnect" href="https://fonts.gstatic.com"/><link rel="stylesheet" href="https://fonts.googleapis.com/css2?family=JetBrains Mono&amp;family=DM Serif Display:wght@400;700&amp;family=Bricolage Grotesque:ital,wght@0,350;0,600;1,400;1,600&amp;display=swap"/><meta name="viewport" content="width=device-width, initial-scale=1.0"/><meta property="og:title" content="index"/><meta property="og:description" content="Hello! Welcome to a little garden of my evolving thoughts, beliefs, and ideas. Here, I make portions of my mind readable to the world, and where I write up my notes on content I consume."/><meta property="og:image" content="https://arunim.fyi/static/og/index.png"/><meta property="og:width" content="1200"/><meta property="og:height" content="675"/><link rel="icon" type="image/svg+xml" href="./static/icon.svg"/><link rel="icon" type="image/png" sizes="32x32" media="(prefers-color-scheme: light)" href="./static/favicon-32.png"/><link rel="icon" type="image/png" sizes="32x32" media="(prefers-color-scheme: dark)" href="./static/favicon-32-dark.png"/><link rel="icon" type="image/png" sizes="16x16" media="(prefers-color-scheme: light)" href="./static/favicon-16.png"/><link rel="icon" type="image/png" sizes="16x16" media="(prefers-color-scheme: dark)" href="./static/favicon-16-dark.png"/><meta name="description" content="Hello! Welcome to a little garden of my evolving thoughts, beliefs, and ideas. Here, I make portions of my mind readable to the world, and where I write up my notes on content I consume."/><meta name="apple-mobile-web-app-capable" content="yes"/><meta name="apple-mobile-web-app-status-bar-style" content="default"/><meta name="apple-mobile-web-app-title" content="The Garden"/><link rel="apple-touch-icon" href="./static/apple-touch-icon.png"/><link rel="manifest" href="./static/manifest.json"/><meta name="generator" content="Quartz"/><meta name="quartz-visibility" content="public"/><link rel="preconnect" href="https://fonts.googleapis.com"/><link rel="preconnect" href="https://fonts.gstatic.com"/><link href="./static/font/font-style.css" rel="stylesheet" type="text/css" spa-preserve/><link href="./index.css" rel="stylesheet" type="text/css" spa-preserve/><link href="https://cdnjs.cloudflare.com/ajax/libs/KaTeX/0.16.9/katex.min.css" rel="stylesheet" type="text/css" spa-preserve/><link href="https://cdnjs.cloudflare.com/ajax/libs/KaTeX/0.16.9/katex.min.css" rel="stylesheet" type="text/css" spa-preserve/><script src="./prescript.js" type="application/javascript" spa-preserve></script><script type="application/javascript" spa-preserve>const fetchData = fetch("./static/contentIndex.json").then(data => data.json())</script><script src="/static/sodium.js" spa-preserve></script></head><body data-slug="index"><div id="quartz-root" class="page"><div id="quartz-body"><div class="left sidebar"><h2 class="page-title"><a href=".">arunim.fyi</a></h2><div class="spacer mobile-only"></div><div class="search"><button class="search-button" id="search-button"><p>Search</p><svg role="img" xmlns="http://www.w3.org/2000/svg" viewBox="[phone redacted]"><title>Search</title><g class="search-path" fill="none"><path stroke-linecap="square" d="M18.5 18.3l-5.4-5.4"></path><circle cx="8" cy="8" r="7"></circle></g></svg></button><div id="search-container"><div id="search-space"><input type="search" autocomplete="off" id="search-bar" name="search" aria-label="Search for something" placeholder="Search for something"/><div id="search-layout" data-preview="true"></div></div></div></div><button class="darkmode" id="darkmode"><svg xmlns="http://www.w3.org/2000/svg" xmlns:xlink="http://www.w3.org/1999/xlink" version="1.1" id="dayIcon" x="0px" y="0px" viewBox="0 0 35 35" style="enable-background:new 0 0 35 35" xml:space="preserve" aria-label="Dark mode"><title>Dark mode</title><path d="M6,17.5C6,16.672,5.328,16,4.5,16h-3C0.672,16,0,16.672,0,17.5    S0.672,19,1.5,19h3C5.328,19,6,18.328,6,17.5z M7.5,26c-0.414,0-0.789,[phone redacted],0.439l-2,2C4.168,28.711,4,29.086,4,29.5    C4,30.328,4.671,31,5.5,31c0.414,0,[phone redacted],1.06-0.44l2-2C8.832,28.289,9,27.914,9,27.5C9,26.672,8.329,26,7.5,26z M17.5,6    C18.329,6,19,5.328,19,4.5v-3C19,0.672,18.329,0,17.5,0S16,0.672,16,1.5v3C16,5.328,16.671,6,17.5,6z M27.5,9    c0.414,0,[phone redacted],1.06-0.439l2-2C30.832,6.289,31,5.914,31,5.5C31,4.672,30.329,4,29.5,4c-0.414,0-0.789,[phone redacted],0.44    l-2,2C26.168,6.711,26,7.086,26,7.5C26,8.328,26.671,9,27.5,9z M6.439,8.561C6.711,8.832,7.086,9,7.5,9C8.328,9,9,8.328,9,7.5    c0-[phone redacted].439-1.061l-2-2C6.289,4.168,5.914,4,5.5,4C4.672,4,4,4.672,4,5.5c0,0.414,0.168,0.789,0.439,1.06    L6.439,8.561z M33.5,16h-3c-0.828,0-1.5,0.672-1.5,1.5s0.672,1.5,1.5,1.5h3c0.828,0,1.5-0.672,1.5-1.5S34.328,16,33.5,16z     M28.561,26.439C28.289,26.168,27.914,26,27.5,26c-0.828,0-1.5,0.672-1.5,1.5c0,0.414,0.168,0.789,0.439,1.06l2,2    C28.711,30.832,29.086,31,29.5,31c0.828,0,1.5-0.672,1.5-1.5c0-[phone redacted].439-1.061L28.561,26.439z M17.5,29    c-0.829,0-1.5,0.672-1.5,1.5v3c0,0.828,0.671,1.5,1.5,1.5s1.5-0.672,1.5-1.5v-3C19,29.672,18.329,29,17.5,29z M17.5,7    C11.71,7,7,11.71,7,17.5S11.71,28,17.5,28S28,23.29,28,17.5S23.29,7,17.5,7z M17.5,25c-4.136,[phone redacted]    c0-4.136,3.364-7.5,7.5-7.5c4.136,0,7.5,3.364,7.5,7.5C25,21.636,21.636,25,17.5,25z"></path></svg><svg xmlns="http://www.w3.org/2000/svg" xmlns:xlink="http://www.w3.org/1999/xlink" version="1.1" id="nightIcon" x="0px" y="0px" viewBox="[phone redacted]" style="enable-background:new [phone redacted]" xml:space="preserve" aria-label="Light mode"><title>Light mode</title><path d="M96.76,66.458c-[phone redacted]-3.23-0.534c-6.063,[phone redacted],[phone redacted],4.571  C62.022,70.495,50.88,65.88,42.5,57.5C29.043,44.043,25.658,23.536,34.076,6.47c0.532-1.08,[phone redacted]  c-[phone redacted]-3.23-0.534c-4.918,[phone redacted],[phone redacted],9.491c-9.447,[phone redacted],[phone redacted],35.369  c0,13.36,5.203,25.921,14.65,35.368s22.008,14.65,35.368,14.65c13.361,0,[phone redacted],[phone redacted]  c3.[phone redacted],[phone redacted],9.491-13.246C97.826,68.608,97.611,67.309,96.76,66.458z"></path></svg><svg xmlns="http://www.w3.org/2000/svg" xmlns:xlink="http://www.w3.org/1999/xlink" version="1.1" id="autoIcon" x="0px" y="0px" viewBox="0 0 24 24" style="enable-background:new 0 0 24 24" xml:space="preserve" aria-label="Device mode"><title>Device mode</title><path stroke="none" d="M0 0h24v24H0z" fill="none"></path><path d="M3 19l18 0" fill="none" stroke="currentColor" stroke-width="2" stroke-linecap="round" stroke-linejoin="round"></path><path d="M5 6m0 1a1 1 0 0 1 1 -1h12a1 1 0 0 1 1 1v8a1 1 0 0 1 -1 1h-12a1 1 0 0 1 -1 -1z" fill="none" stroke="currentColor" stroke-width="2" stroke-linecap="round" stroke-linejoin="round"></path></svg></button><div class="recent-notes desktop-only"><h3>Recently Updated</h3><ul class="recent-ul"><li class="recent-li"><div class="section"><div class="desc"><h3><a href="./advice" class="internal">advice</a></h3></div><p class="meta">Jul 20, 2026</p></div></li><li class="recent-li"><div class="section"><div class="desc"><h3><a href="./Thoughts-on-LLM-Personalization" class="internal">Thoughts on LLM Personalization</a></h3></div><p class="meta">Jul 19, 2026</p></div></li><li class="recent-li"><div class="section"><div class="desc"><h3><a href="./Calvin-and-Hobbes" class="internal">Calvin and Hobbes</a></h3></div><p class="meta">Jul 18, 2026</p></div></li><li class="recent-li"><div class="section"><div class="desc"><h3><a href="./Where-is-the-CEV-benchmark" class="internal">Where is the CEV benchmark?</a></h3></div><p class="meta">Jul 18, 2026</p></div></li></ul><p><a href="./tags/root-directory">See all 84004 tokens →</a></p></div></div><div class="center"><div class="page-header"><div class="popover-hint"></div></div><article class="popover-hint"><img src="./assets/recolored_banner_1737173956602_0.svg" width="701" height="183" loading="lazy"/>
 <pre class="poetry">Hello!</pre>
 <p>Welcome to a little <a href="./garden" class="internal" data-slug="garden">garden</a> of my evolving thoughts, beliefs, and ideas. Here, I make portions of my mind readable to the world, and where I write up my notes on content I <a href="./consume" class="internal" data-slug="consume">consume</a>. If you’re looking for an “about me”, see my old website <a href="https://2024.arunim.fyi" class="external" target="_blank">here<svg aria-hidden="true" class="external-icon" viewBox="0 0 512 512"><path d="M320 0H288V64h32 82.7L201.4 265.4 178.7 288 224 333.3l22.6-22.6L448 109.3V192v32h64V192 32 0H480 320zM32 32H0V64 480v32H32 456h32V480 352 320H424v32 96H64V96h96 32V32H160 32z"></path></svg></a> or check out what I’m up to <a href="./now" class="internal" data-slug="now">now</a>.</p>
 <p>While at work, I’m likely thinking about <a href="./AI-progress" class="internal alias" data-slug="AI-progress">AI progress</a>, <a href="./tags/ai/eval" class="internal alias" data-slug="tags/ai/eval">LLM evaluations</a>, and maybe some <a href="./tags/ai/adv" class="internal alias" data-slug="tags/ai/adv">adversarial robustness</a>. Outside of work, I enjoy making <a href="./spaced-repetition" class="internal alias" data-slug="spaced-repetition">spaced repetition</a> easier, playing and thinking about <a href="./fog-of-war-chess" class="internal alias" data-slug="fog-of-war-chess">fog-of-war chess</a>, and doing a whole lot of miscellaneous, fairly shallow learning.</p>

diff --git a/content/advice.md b/content/advice.md
@@ -2,14 +2,7 @@
 public: true
 ---
 Some advice, I'll update this occasionally. Note that I think most advice applies to everyone. Some people say all advice is bad, to them I say this isn't advice despite being titled advice, and is instead just reminders of obvious facts about the world.
-### More college-specific 
-(But again, I think most advice applies to everyone)
-
-- College is a great time to make a wide wide range of friends. I don't think I did this that well, because I didn't try. 
-- The primary indicator (by far) for whether you should take a course is how good you think the prof is, how much you'd enjoy talking to them and learning from them, etc. 
-- Read [Euan's advice](https://space.ong.ac/escaping-flatland) now and when you get far enough that you're thinking about job-related things, read it again.
-- Find good mentors and be a good mentee (I was bad at the latter, and still don't know how to do it well yet, but you can probably look it up or actually just ask someone smarter than me). 
-
+### General
 - I think you should spend your time [[creating instead of consuming|creating]] stuff with others. See [this post](https://benbyfax.substack.com/p/aliveness )
 - Cold email. it's not too hard to find most people's emails, or other ways of emailing them. Follow up with them a few days afterwards if they don't respond. 
 - If you primarily want to do good in the world, read [Sophie's post](https://sophieinkhaven.substack.com/cp/193324672).
@@ -65,3 +58,11 @@ Maybe read this block of text from a [podcast I enjoyed](https://www.dwarkesh.co
 > There’s this LeBron quote where he talks about how before he started in the league he was worried that everyone being incredibly good. He gets there and then he realizes that actually, once people hit financial stability, they relax a bit and he realizes, “oh, this is going to be easy.”
 > 
 > I don't think that's quite true because I think in AI research most people actually care quite deeply. But there's caring about your problem and there's also just caring about the entire stack and everything that goes up and down, going explicitly and fixing things that aren't your responsibility to fix because overall it makes the stack better.
+
+### More college-specific 
+(But again, I think most advice applies to everyone)
+
+- College is a great time to make a wide wide range of friends. I don't think I did this that well, because I didn't try. 
+- The primary indicator (by far) for whether you should take a course is how good you think the prof is, how much you'd enjoy talking to them and learning from them, etc. 
+- Read [Euan's advice](https://space.ong.ac/escaping-flatland) now and when you get far enough that you're thinking about job-related things, read it again.
+- Find good mentors and be a good mentee (I was bad at the latter, and still don't know how to do it well yet, but you can probably look it up or actually just ask someone smarter than me). 